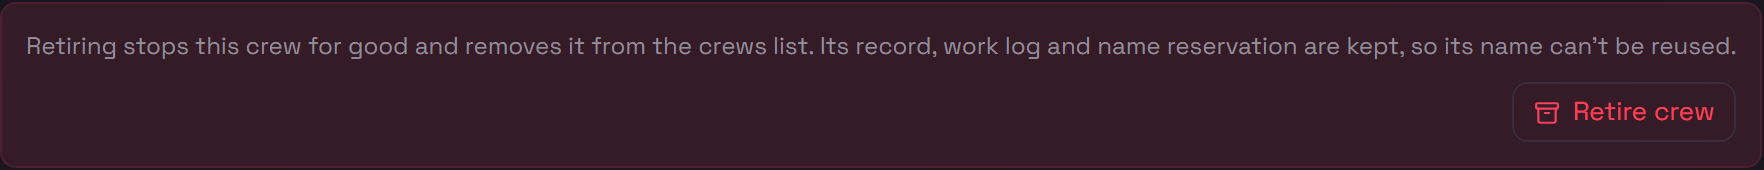
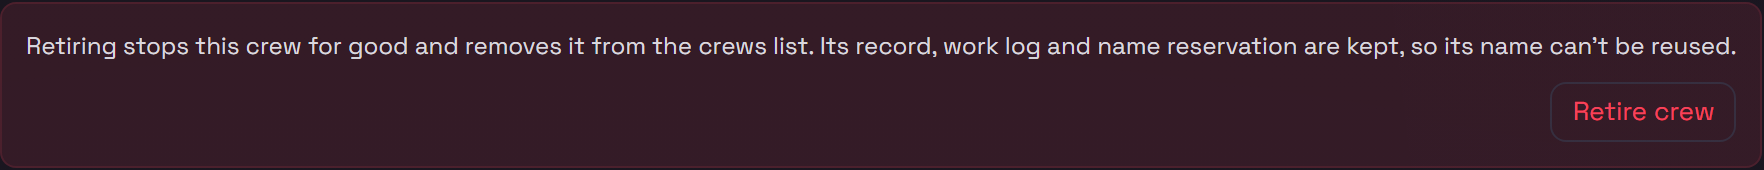
fix(issue-radar): retire the crew the confirmation named
The retire mutation read the page's crew id when the request went out.
CrewPageView is not keyed by crew, so a roster poll could re-point it
at another crew while the confirmation was open, and confirming would
retire a crew the dialog never named. The repo, crew id and name are
now captured when Retire crew is pressed and travel as the mutation's
variables.

The rest answers the UX review: the crews column now says which crew
was retired wherever the selection lands next (a dismissable notice
held in the Issue Radar context, scoped to the repo it was raised in),
the button reads Retiring... while the request is out, the archive
icon is gone because nothing restores a retired crew, the warning text
is no longer muted, and the confirmation quotes the crew name in each
locale's own quote pair, pinned by destructiveConfirm.test.ts.

diff --git a/website/src/test/IssueRadarCrewPage.test.tsx b/website/src/test/IssueRadarCrewPage.test.tsx
@@ -49,6 +49,7 @@ vi.mock('../apps/issue-radar/context', () => ({
 }))
 
 const CrewPageView = (await import('../apps/issue-radar/views/CrewPageView')).default
+const RetiredCrewNotice = (await import('../apps/issue-radar/components/RetiredCrewNotice')).default
 
 /** The instant every fixture stamp is measured from. Frozen so the 24h boundary
  *  is a fact of the test, not of the clock it ran on. */
@@ -163,6 +164,7 @@ beforeEach(() => {
   ctx.value = {
     active: { owner: 'o', repo: 'r' },
     refreshPrefs: { listPollMs: 60_000, detailPollMs: 15_000, staleTimeMs: 30_000, pollInBackground: false, prefetchPulls: false },
+    setRetiredCrewName: vi.fn(),
   }
   api.crew.mockResolvedValue(payload())
   api.setCrewPaused.mockImplementation((_ref: unknown, _id: string, paused: boolean) =>
@@ -557,6 +559,10 @@ describe('CrewPageView — retire', () => {
     await waitFor(() => {
       expect(api.retireCrew).toHaveBeenCalledWith({ owner: 'o', repo: 'r' }, 'crew-andromeda')
     })
+    // The crews column says which crew went, wherever the selection lands next.
+    await waitFor(() => {
+      expect(ctx.value.setRetiredCrewName).toHaveBeenCalledWith('Andromeda')
+    })
     // The roster refetch is what moves the page off a crew that has left it.
     await waitFor(() => {
       expect(invalidate).toHaveBeenCalledWith({ queryKey: ['issue-radar', 'crews', expect.any(String)] })
@@ -589,5 +595,72 @@ describe('CrewPageView — retire', () => {
     const notice = await screen.findByTestId('crew-retire-error')
     expect(notice).toHaveTextContent(copy('retire_failed'))
     expect(notice).toHaveTextContent('crew_not_found')
+  })
+
+  it('retires the crew the dialog named even if the page re-points while it is open', async () => {
+    // The view is not keyed by crew: a roster poll can move it to another crew
+    // (this one retired from a second tab) while the confirmation is still up.
+    api.retireCrew.mockResolvedValue({ crew: crew({ retired_at: ago(0) }) })
+    const user = userEvent.setup({ advanceTimers: vi.advanceTimersByTime })
+    const { rerender } = renderPage()
+
+    await user.click(await screen.findByTestId('crew-retire'))
+    await screen.findByRole('dialog')
+    api.crew.mockResolvedValue(payload({ crew: crew({ id: 'crew-bootes', name: 'Bootes' }) }))
+    rerender(<CrewPageView crewId="crew-bootes" />)
+    // The page now shows the other crew; the pending confirmation still names
+    // the one it was opened for.
+    await waitFor(() => {
+      expect(screen.getByTestId('crew-name')).toHaveTextContent('Bootes')
+    })
+    const dialog = await screen.findByRole('dialog')
+    expect(dialog).toHaveTextContent(copy('retire_confirm_title', { name: 'Andromeda' }))
+    await user.click(within(dialog).getByRole('button', { name: copy('retire') }))
+
+    await waitFor(() => {
+      expect(api.retireCrew).toHaveBeenCalledTimes(1)
+    })
+    expect(api.retireCrew).toHaveBeenCalledWith({ owner: 'o', repo: 'r' }, 'crew-andromeda')
+    await waitFor(() => {
+      expect(ctx.value.setRetiredCrewName).toHaveBeenCalledWith('Andromeda')
+    })
+  })
+
+  it('says it is retiring while the request is out', async () => {
+    let settle: (v: unknown) => void = () => {}
+    api.retireCrew.mockReturnValue(new Promise((resolve) => { settle = resolve }))
+    const user = userEvent.setup({ advanceTimers: vi.advanceTimersByTime })
+    renderPage()
+
+    await user.click(await screen.findByTestId('crew-retire'))
+    await user.click(within(await screen.findByRole('dialog')).getByRole('button', { name: copy('retire') }))
+
+    await waitFor(() => {
+      expect(screen.getByTestId('crew-retire')).toHaveTextContent(copy('retiring'))
+    })
+    expect(screen.getByTestId('crew-retire')).toBeDisabled()
+    settle({ crew: crew({ retired_at: ago(0) }) })
+    await waitFor(() => {
+      expect(screen.getByTestId('crew-retire')).toHaveTextContent(copy('retire'))
+    })
+  })
+})
+
+describe('RetiredCrewNotice', () => {
+  it('names the retired crew, quoted, and clears on dismiss', async () => {
+    ctx.value = { ...ctx.value, retiredCrewName: 'Andromeda' }
+    const user = userEvent.setup({ advanceTimers: vi.advanceTimersByTime })
+    renderWithProviders(<RetiredCrewNotice />)
+
+    const notice = await screen.findByTestId('crew-retired-notice')
+    expect(notice).toHaveTextContent(copy('retired_notice', { name: 'Andromeda' }))
+    await user.click(within(notice).getByRole('button'))
+    expect(ctx.value.setRetiredCrewName).toHaveBeenCalledWith(null)
+  })
+
+  it('renders nothing when no crew was retired in this tab', () => {
+    ctx.value = { ...ctx.value, retiredCrewName: null }
+    renderWithProviders(<RetiredCrewNotice />)
+    expect(screen.queryByTestId('crew-retired-notice')).not.toBeInTheDocument()
   })
 })

diff --git a/website/src/apps/issue-radar/views/CrewPageView.tsx b/website/src/apps/issue-radar/views/CrewPageView.tsx
@@ -44,7 +44,7 @@ import { useMemo, useState } from 'react'
 import { useMutation, useQuery, useQueryClient } from '@tanstack/react-query'
 import { useTranslation } from 'react-i18next'
 import { useNavigate } from 'react-router-dom'
-import { Archive, CirclePlus, Inbox, ListChecks, Pause, Pencil, Play, ScrollText, Undo2 } from 'lucide-react'
+import { CirclePlus, Inbox, ListChecks, Pause, Pencil, Play, ScrollText, Undo2 } from 'lucide-react'
 
 import { Badge, Btn, Card, CardTitle, EmptyState, StatCard } from '../../../components/ui'
 import { useConfirm } from '../../../components/ConfirmDialog'
@@ -220,7 +220,7 @@ export interface CrewPageViewProps {
 
 export default function CrewPageView({ crewId, onEdit }: CrewPageViewProps) {
   const { t } = useTranslation()
-  const { active, refreshPrefs } = useIssueRadar()
+  const { active, refreshPrefs, setRetiredCrewName } = useIssueRadar()
   const qc = useQueryClient()
   const dispatch = useAppDispatch()
   const navigate = useNavigate()
@@ -274,22 +274,31 @@ export default function CrewPageView({ crewId, onEdit }: CrewPageViewProps) {
   // "Retire crew": the backend stops the crew for good and drops it from the
   // roster, keeping its record, work log and name reservation. Refetching the
   // roster is what moves the page on: the context re-points a selection the
-  // roster no longer holds at the first crew left, or at the empty state.
+  // roster no longer holds at the first crew left, or at the empty state, and the
+  // crews column then says which crew was retired.
+  //
+  // The repo and crew are captured when the button is pressed and travel as the
+  // mutation's variables. This view is not keyed by crew, so while the dialog is
+  // open a roster poll can re-point it at another crew (this one retired from a
+  // second tab, say); reading `crewId` when the request goes out would then retire
+  // a crew the dialog never named.
   const { confirm, confirmDialog } = useConfirm()
   const retire = useMutation({
-    mutationFn: () => issueRadarApi.retireCrew(active, crewId),
-    onSuccess: () => {
-      void qc.invalidateQueries({ queryKey: ['issue-radar', 'crews', repoScopeKey(active)] })
+    mutationFn: (target: { ref: typeof active, id: string, name: string }) =>
+      issueRadarApi.retireCrew(target.ref, target.id),
+    onSuccess: (_res, target) => {
+      setRetiredCrewName(target.name)
+      void qc.invalidateQueries({ queryKey: ['issue-radar', 'crews', repoScopeKey(target.ref)] })
     },
   })
   const retireFailReason = retire.error instanceof Error ? retire.error.message.trim() : ''
-  const askRetire = async (name: string) => {
+  const askRetire = async (target: { ref: typeof active, id: string, name: string }) => {
     const ok = await confirm({
-      title: t('apps.issueRadar.views.crews.page.retire_confirm_title', { name }),
+      title: t('apps.issueRadar.views.crews.page.retire_confirm_title', { name: target.name }),
       body: t('apps.issueRadar.views.crews.page.retire_hint'),
       confirmLabel: t('apps.issueRadar.views.crews.page.retire'),
     })
-    if (ok) retire.mutate()
+    if (ok) retire.mutate(target)
   }
 
   // ── open work items ──
@@ -696,19 +705,23 @@ export default function CrewPageView({ crewId, onEdit }: CrewPageViewProps) {
         className="flex flex-col gap-2 rounded-md border border-danger-subtle bg-danger-subtle p-3"
         data-testid="crew-retire-zone"
       >
-        <p className="m-0 text-[12px] leading-relaxed text-muted">
+        <p className="m-0 text-[12px] leading-relaxed text-text">
           {t('apps.issueRadar.views.crews.page.retire_hint')}
         </p>
         <div className="flex items-center">
           <div className="flex-1" />
           <Btn
             danger
-            onClick={() => { void askRetire(crew.name) }}
+            onClick={() => { void askRetire({ ref: active, id: crewId, name: crew.name }) }}
             disabled={retire.isPending}
+            aria-busy={retire.isPending}
             data-testid="crew-retire"
           >
-            <Archive className="lucide-inline" />
-            {t('apps.issueRadar.views.crews.page.retire')}
+            {/* No icon: the archive glyph reads as "can be restored", and nothing
+                restores a retired crew. */}
+            {retire.isPending
+              ? t('apps.issueRadar.views.crews.page.retiring')
+              : t('apps.issueRadar.views.crews.page.retire')}
           </Btn>
         </div>
         {/* No draft on this page, so the hand-off loses nothing. */}

diff --git a/website/src/apps/issue-radar/context.tsx b/website/src/apps/issue-radar/context.tsx
@@ -367,6 +367,11 @@ export interface IssueRadarContextValue {
    * shape as `openSettings(target?)`, so a rail row can navigate in one call
    * instead of setting the page and the view separately. */
   openCrews: (view?: CrewView) => void
+  /** The name of the crew this tab just retired, for the notice the crews column
+   * shows wherever the selection lands next (another crew, or the empty state).
+   * Cleared by dismissing it or by switching repo. */
+  retiredCrewName: string | null
+  setRetiredCrewName: (name: string | null) => void
   /** Which pane a narrow viewport is showing, for the list-detail drill-down.
    * Hosted here rather than in the shell because the row handlers that drill in
    * live in the list components, which already consume this context — passing a
@@ -477,6 +482,15 @@ export function IssueRadarProvider({
   const [crewFilter, setCrewFilter] = useState<CrewFilter>(restoredCrewUi.crewFilter)
   const [crewSortKey, setCrewSortKey] = useState<CrewSortKey>(restoredCrewUi.crewSortKey)
   const [crewSortDir, setCrewSortDir] = useState<SortDir>(restoredCrewUi.crewSortDir)
+  // Session-only, deliberately not in CREW_UI_KEY: a retire notice is about this
+  // tab's own action and means nothing after a reload. Held with the repo it was
+  // raised in and shown only while that repo is active, so a repo switch clears
+  // it without an effect.
+  const [retiredCrew, setRetiredCrew] = useState<{ name: string, scope: string } | null>(null)
+  const retiredCrewName = retiredCrew?.scope === scopeKey ? retiredCrew.name : null
+  const setRetiredCrewName = useCallback((name: string | null) => {
+    setRetiredCrew(name === null ? null : { name, scope: scopeKey })
+  }, [scopeKey])
 
   // ── pull-request view state (parallels the issue filters/sort/selection) ──
   const [prQuery, setPrQuery] = useState(restored.prQuery ?? '')
@@ -1389,6 +1403,7 @@ export function IssueRadarProvider({
     crewsError: (crewsQuery.error as Error) ?? null,
     crewView, setCrewView, crewFilter, setCrewFilter, openCrews,
     crewSortKey, crewSortDir, cycleCrewSort,
+    retiredCrewName, setRetiredCrewName,
     listDetail,
   }), [
     listDetail,
@@ -1427,6 +1442,7 @@ export function IssueRadarProvider({
     crews, crewCounts, crewsQuery.data, crewsQuery.isLoading, crewsQuery.error,
     crewView, setCrewView, crewFilter, setCrewFilter, openCrews,
     crewSortKey, crewSortDir, cycleCrewSort,
+    retiredCrewName, setRetiredCrewName,
   ])
 
   return <Ctx.Provider value={value}>{children}</Ctx.Provider>

diff --git a/website/src/apps/issue-radar/components/RetiredCrewNotice.tsx b/website/src/apps/issue-radar/components/RetiredCrewNotice.tsx
@@ -1,0 +1,28 @@
+import { useTranslation } from 'react-i18next'
+
+import StatusNotice from '../../../components/StatusNotice'
+import { useIssueRadar } from '../context'
+
+/** Says which crew this tab just retired, wherever the crews column lands next.
+ *
+ * Retiring drops the crew from the roster, and the context then re-points the
+ * selection at the first crew left, or at the empty state. Without this the
+ * person lands on a different crew's page with nothing saying the retire
+ * happened, and could take that crew for the one they were looking at. Placed by
+ * `Workspace` above both the crew page and the empty-state placeholder, so it
+ * survives either landing. */
+export default function RetiredCrewNotice() {
+  const { t } = useTranslation()
+  const { retiredCrewName, setRetiredCrewName } = useIssueRadar()
+  if (retiredCrewName === null) return null
+  return (
+    <div className="px-6 pt-4" aria-live="polite">
+      <StatusNotice
+        tone="info"
+        message={t('apps.issueRadar.views.crews.page.retired_notice', { name: retiredCrewName })}
+        onDismiss={() => { setRetiredCrewName(null) }}
+        testId="crew-retired-notice"
+      />
+    </div>
+  )
+}

diff --git a/website/src/apps/issue-radar/Workspace.tsx b/website/src/apps/issue-radar/Workspace.tsx
@@ -37,6 +37,7 @@ import PrDetail from './components/PrDetail'
 import CrewList from './components/CrewList'
 import CrewEditor from './components/CrewEditor'
 import CrewPageView from './views/CrewPageView'
+import RetiredCrewNotice from './components/RetiredCrewNotice'
 import SettingsView from './views/SettingsView'
 import { dashboardComponent } from './views/registry'
 import { providerTerms } from './lib/links'
@@ -281,6 +282,7 @@ export default function Workspace() {
             {/* The scroll container moves off <main> onto this wrapper so the
                 Back row stays pinned instead of scrolling away with the page. */}
             <div className="flex-1 min-h-0 overflow-y-auto">
+            <RetiredCrewNotice />
             {crewView.kind === 'crew'
               ? <CrewPageView crewId={crewView.id} onEdit={(crew) => setCrewEditor({ crew })} />
               : (

diff --git a/website/src/i18n/destructiveConfirm.test.ts b/website/src/i18n/destructiveConfirm.test.ts
@@ -177,6 +177,7 @@ export const QUOTED_OPERAND_CONFIRM_KEYS = [
   'apps.awsControl.page.forget_key_confirm', // key-name operand, quoted per locale
   'apps.codeReviewSage.components.learningRail.confirm_delete', // quoted since #4653
   'apps.crewCompanion.gallery.deleteConfirm', // ASCII quotes → locale pair #4821
+  'apps.issueRadar.views.crews.page.retire_confirm_title', // crew-name operand of the Retire crew confirmation, quoted per locale
   'apps.mdNotebook.row.deleteTitle', // already quoted; pin + fr NNBSP fix #5725
   'apps.meetings.list.deleteConfirm', // already quoted; pin + fr/it glyph fix #4821
   'apps.mochi.gallery.delete_confirm', // ASCII quotes → locale pair #4821
